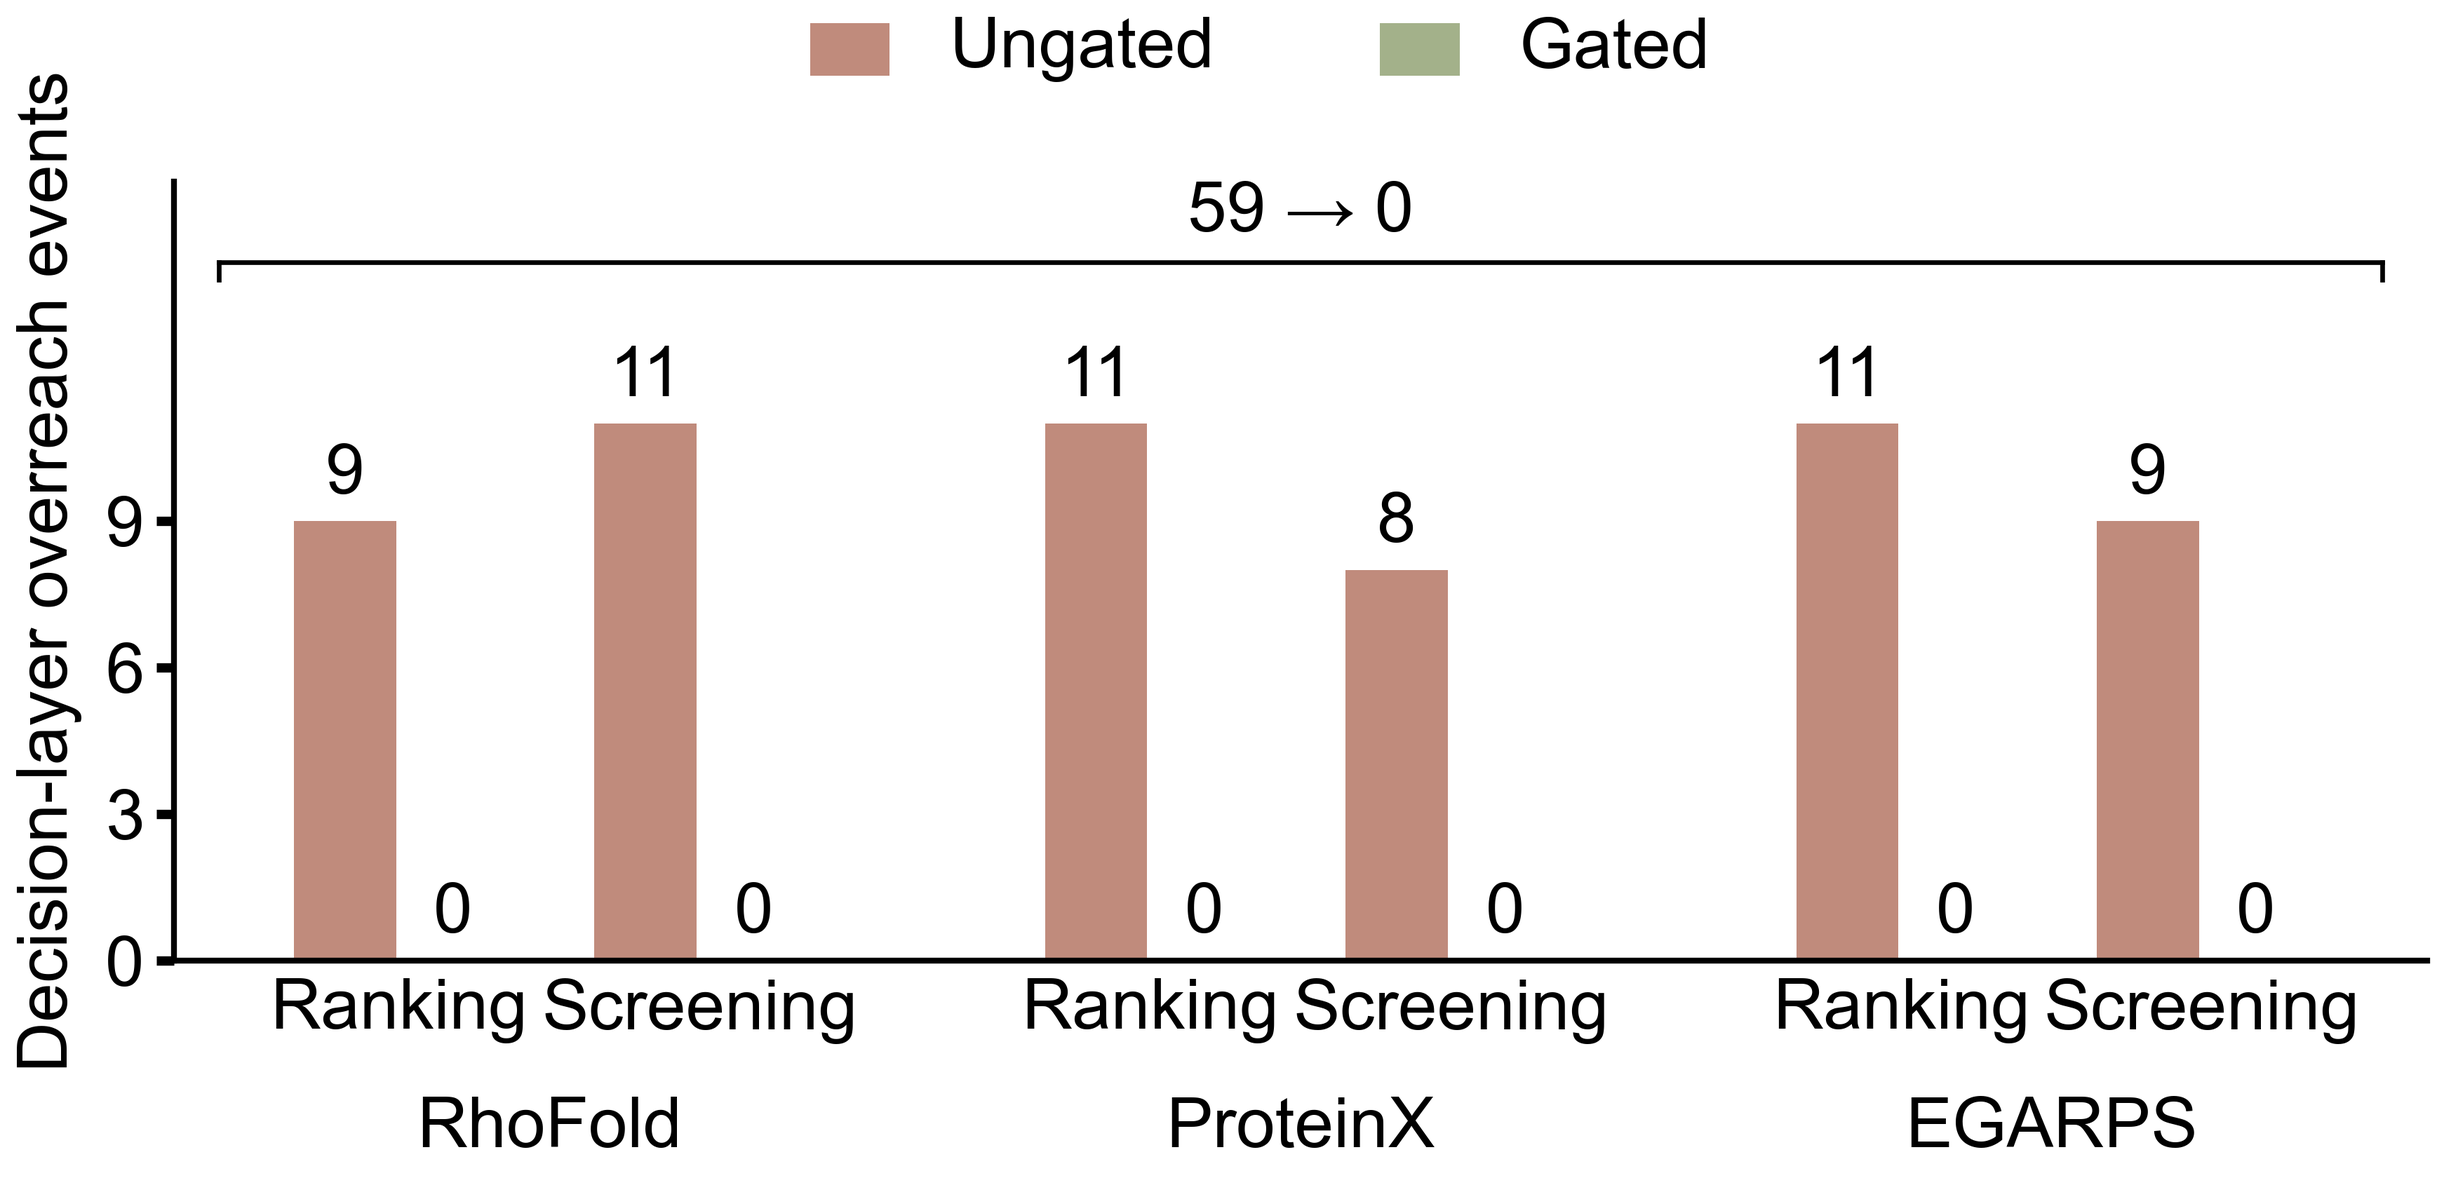
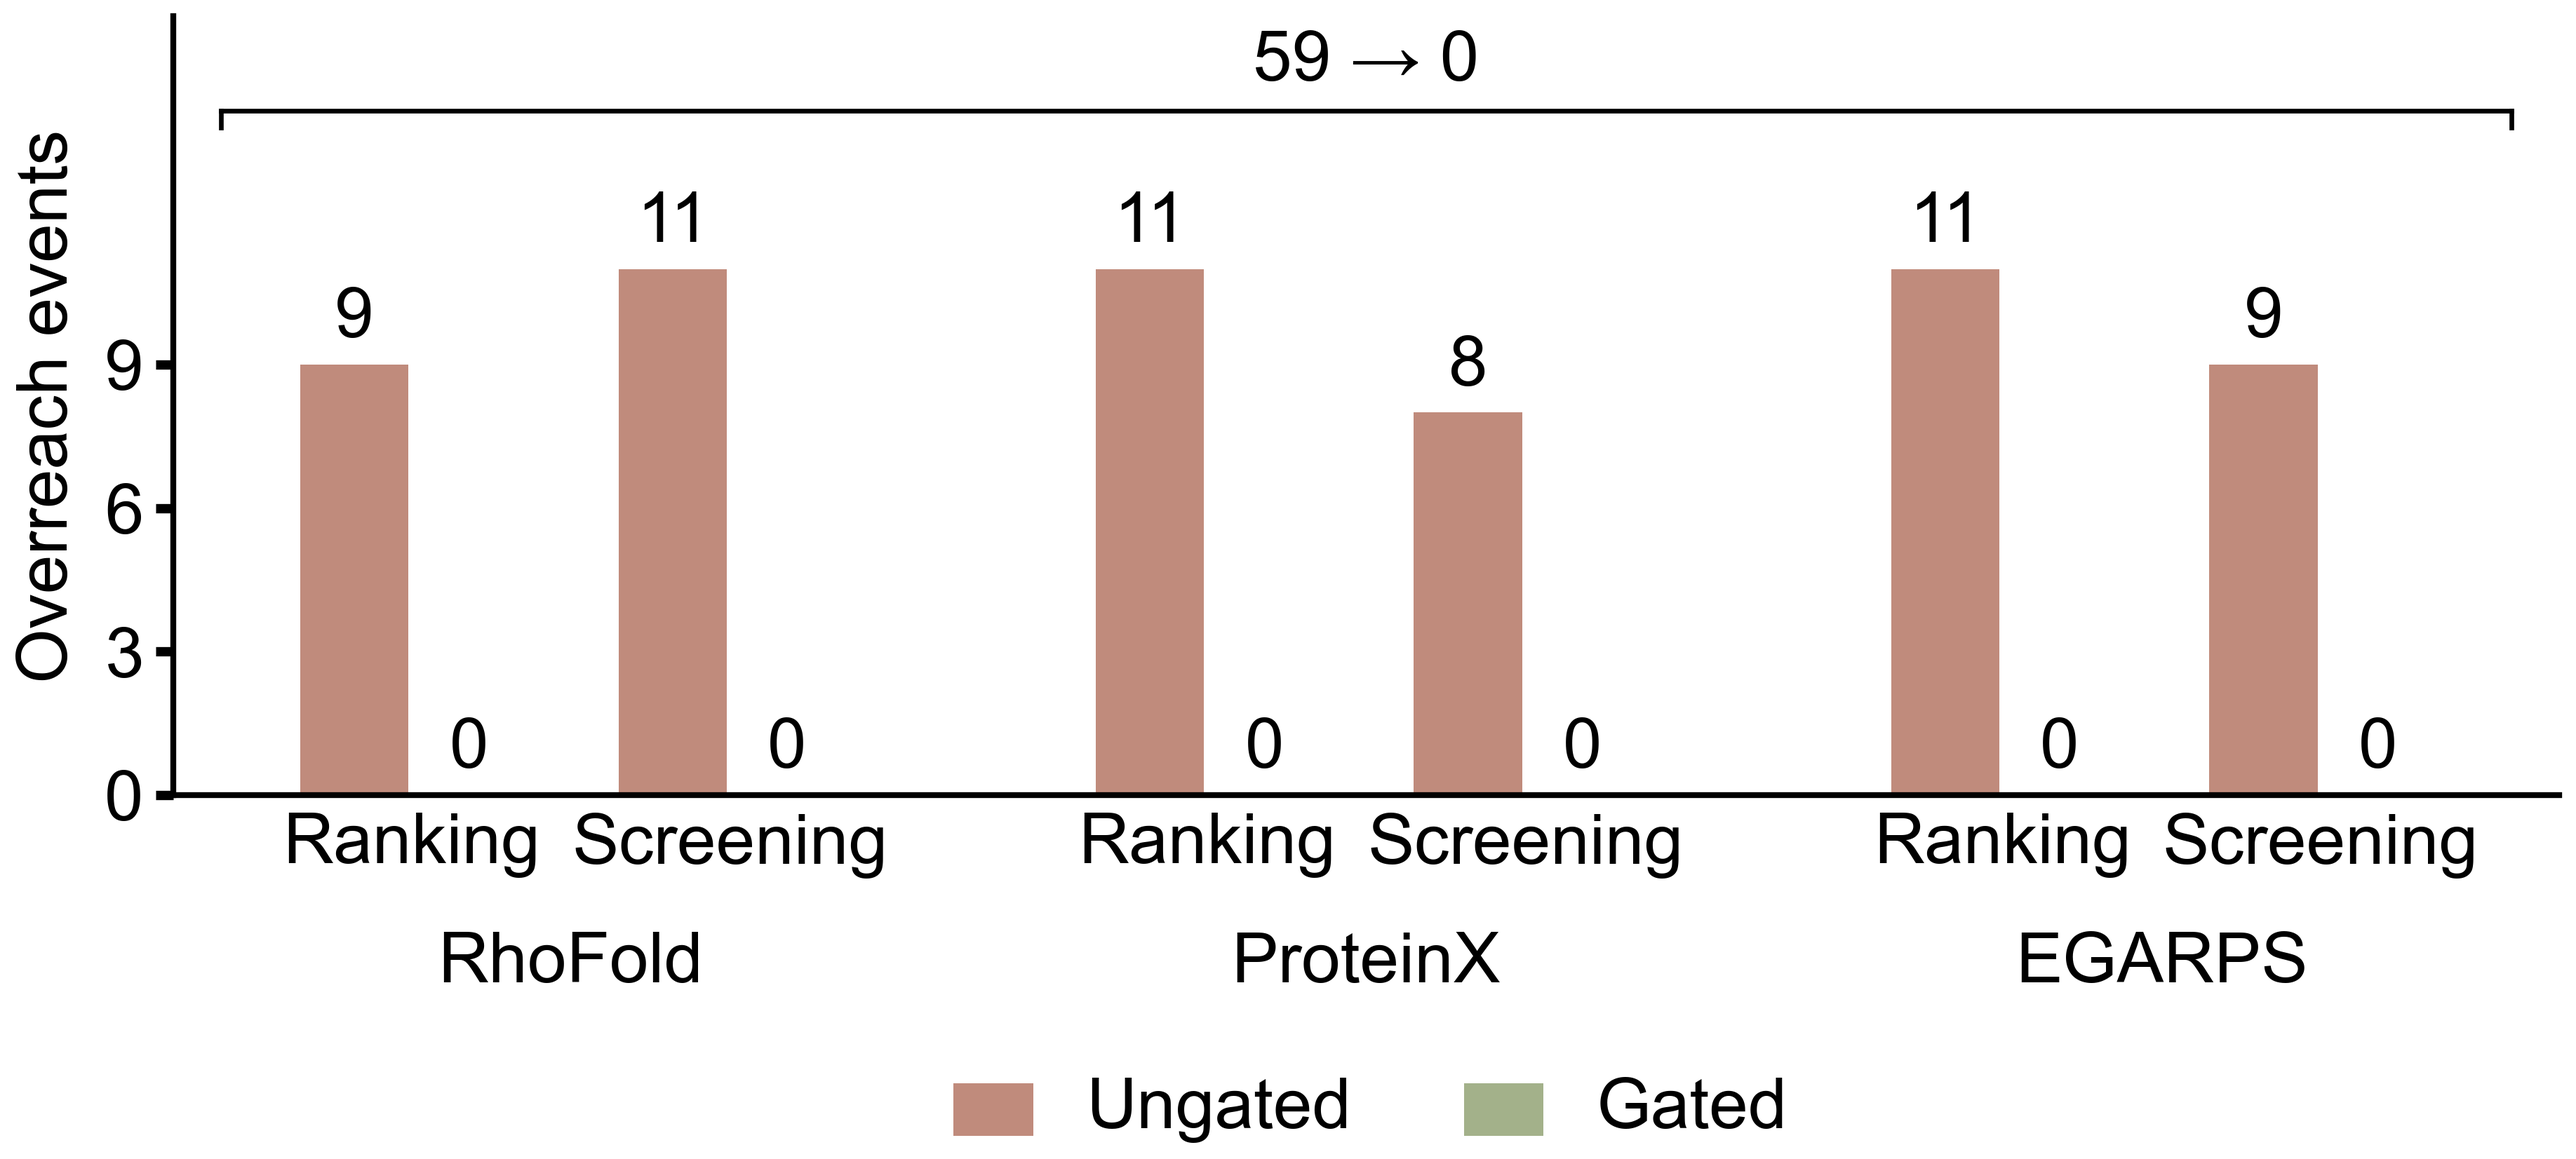
style(fig4c): move the arm key under the panel + shorten the y-axis label — user-directed revision of the frozen Exp-17/Exp-5 panel, no re-run; legend now a single centred row directly under the panel (fig3e convention), y-axis label Overreach events (decision-layer qualifier stays in the Fig. 4c ca

diff --git a/rna_agent_system/experiments/plots/fig4c_overreach_events.py b/rna_agent_system/experiments/plots/fig4c_overreach_events.py
@@ -14,6 +14,15 @@ or summary statistics beyond the registered delta annotation; every text
 element one 6-pt pure-black style; colours only from palette rev 7; 1200-dpi
 PNG + vector PDF (fonttype 42); absolute-mm geometry, single-column width.
 
+2026-09-01 user-directed revision (same frozen results, no re-run): the arm
+key was moved from the floating figure-top position to a single centred row
+directly under the panel (the fig3e convention — legend attached to the
+panel); the y-axis label was shortened from the 31-character
+"Decision-layer overreach events" (which overflowed the 23-mm axis at 6 pt)
+to "Overreach events" — the decision-layer qualifier is stated verbatim in
+the Fig. 4c caption; and the figure geometry was rebalanced to the new
+stack (44 → 40.5 mm tall).
+
 Data  : experiments/results/exp5_claim_overreach/runs_summary.json (ungated)
         experiments/results/exp17_claim_gating/summary.json (gated)
 Usage : python experiments/plots/fig4c_overreach_events.py
@@ -77,13 +86,13 @@ def main() -> int:
     gated_total = exp17["arms"]["gated"]["overreach_events"]
     assert gated_total == 0 and sum(ungated) == exp5["overreach_total"]
 
-    fig_w, fig_h = 89 / 25.4, 44 / 25.4
+    fig_w, fig_h = 89 / 25.4, 40.5 / 25.4
     fig = plt.figure(figsize=(fig_w, fig_h), facecolor="white")
-    ax = fig.add_axes([16 / 25.4 / fig_w, 12.5 / 25.4 / fig_h,
-                       68 / 25.4 / fig_w, 23.5 / 25.4 / fig_h])
+    ax = fig.add_axes([11 / 25.4 / fig_w, 12.5 / 25.4 / fig_h,
+                       72 / 25.4 / fig_w, 23.5 / 25.4 / fig_h])
 
     w = 0.34
-    y_top = max(ungated) * 1.45
+    y_top = max(ungated) * 1.48
     for x, n in zip(xs, ungated):
         ax.bar(x - w / 2 - 0.01, n, width=w, color=ARM_COLORS["ungated"],
                edgecolor="none")
@@ -105,7 +114,7 @@ def main() -> int:
     ax.set_xlim(-0.75, 6.75)
     ax.set_ylim(0, y_top)
     ax.set_yticks(range(0, 12, 3))
-    ax.set_ylabel("Decision-layer overreach events", fontsize=FONT, labelpad=2)
+    ax.set_ylabel("Overreach events", fontsize=FONT, labelpad=2)
     ax.spines["top"].set_visible(False)
     ax.spines["right"].set_visible(False)
 
@@ -118,22 +127,25 @@ def main() -> int:
     ax.text((bx0 + bx1) / 2, by + 0.35, f"{sum(ungated)} → 0",
             ha="center", va="bottom", fontsize=FONT, color=INK)
 
-    # arm key: one centred row under the panel (the fig4a arm-colour key)
+    # arm key: one centred row directly under the panel, centred on the axes
+    # (the fig3e convention — the legend attaches to the panel rather than
+    # floating above it)
     def _fx(v: float) -> float: return v / 25.4 / fig_w
-    def _fy(v: float) -> float: return 1 - v / 25.4 / fig_h
-    key_y = 4.0
-    sw_w, sw_h, pitch, gap_k, label_w = 2.4, 1.6, 3.0, 1.8, 10.0
-    row_w = 2 * (sw_w + gap_k + label_w) + pitch - gap_k
-    x = (16 + 68 / 2) - row_w / 2
-    for arm, lab in (("ungated", "Ungated"), ("gated", "Gated")):
+    def _fy(v: float) -> float: return v / 25.4 / fig_h
+    sw_w, sw_h, gap_k, gap_e = 2.4, 1.6, 1.6, 4.0
+    entries = (("ungated", "Ungated"), ("gated", "Gated"))
+    label_w = {"ungated": 7.4, "gated": 5.5}
+    row_w = (sum(sw_w + gap_k + label_w[a] for a, _ in entries)
+             + gap_e * (len(entries) - 1))
+    x = (11 + 72 / 2) - row_w / 2
+    for arm, lab in entries:
         fig.patches.append(plt.Rectangle(
-            (_fx(x), _fy(key_y + sw_h / 2)), _fx(sw_w),
-            _fy(key_y - sw_h / 2) - _fy(key_y + sw_h / 2),
+            (_fx(x), _fy(3.0 - sw_h / 2)), _fx(sw_w), _fy(sw_h),
             facecolor=ARM_COLORS[arm], edgecolor="none",
             transform=fig.transFigure))
-        fig.text(_fx(x + sw_w + gap_k), _fy(key_y), lab, ha="left", va="center",
+        fig.text(_fx(x + sw_w + gap_k), _fy(3.0), lab, ha="left", va="center",
                  fontsize=FONT, color=INK)
-        x += sw_w + gap_k + label_w + pitch
+        x += sw_w + gap_k + label_w[arm] + gap_e
 
     OUT_DIR.mkdir(parents=True, exist_ok=True)
     for ext in ("pdf", "png"):

diff --git a/rna_agent_system/docs/CHANGELOG.md b/rna_agent_system/docs/CHANGELOG.md
@@ -12,6 +12,10 @@
 
 - **`experiments/plots/fig4b_claim_matrix.py` 修订并重渲染**（`fig4b_claim_matrix.{pdf,png}`）：(1) 删除右上 arm × verdict mosaic inset——其计数已在 Fig 4b 图注与正文陈述（fig2h 删 donut / fig3f 删 waffle 的先例），且其重复的臂标签互相挤压、下方留出整列空带；(2) 行标签改用 fig3 靶标惯例（"IFN-gamma" → "IFN-γ"、"Influenza H3N2 HA" → "swine H3 HA"），"U reduce" 改词为 "U reduction"；(3) 底部四摆片裁定键改为渲染器实测字宽排版（fig4e 惯例）并加画布溢出断言——旧版估算字宽使图例实际比画布宽、靠 tight-crop 外扩；(4) 臂块 12 → 14 mm、块间距 5 → 8 mm，使矩阵主体与单行图例共享画布宽度（tile 1.7 → 2.0 mm）。全部文字维持 6-pt 纯黑（光栅复核：旧版亦全部为 #000000 文字核，无非黑文字）、palette rev 7 用色、1200-dpi PNG + 矢量 PDF。光栅 QA：零非黑文字核、零非调色板色块、tile 内零文字墨迹、四边无裁切。文档同步：PAPER_DRAFT Fig 4 图注 (b) 删 mosaic-inset 从句、FIGURE_PLAN_V5 行 b + 类型清单 + 注记。
 
+## 2026-09-01 — Fig 4c 用户指示修订（同一份 Exp-17/Exp-5 冻结结果，无重跑；数据 59 → 0 不变）
+
+- **`experiments/plots/fig4c_overreach_events.py` 修订并重渲染**（`fig4c_overreach_events.{pdf,png}`）：(1) 臂图例（Ungated/Gated）从悬浮于图顶部（与面板脱开、视觉上像偏置标题）移到面板正下方单行、对轴居中——fig3e「图例贴面板」惯例；(2) y 轴标签从 31 字符的 "Decision-layer overreach events"（6 pt 下超出 23-mm 轴高）缩为 "Overreach events"——decision-layer 限定语在 Fig. 4c 图注中逐字保留；(3) 图几何按新堆叠再平衡（89×44 → 89×40.5 mm，轴 11/12.5/72/23.5 mm，y_top 1.45 → 1.48 使 "59 → 0" 标注完整落于轴内）。子图内无标题维持（Nature 惯例：面板字母组版时加，标题性陈述在图注）。全部文字 6-pt 纯黑（光栅复核：文字核全部 #000000，仅抗锯齿灰晕）、palette rev 7 用色、1200-dpi PNG + 矢量 PDF（fonttype 42）。光栅 QA：四边外 3 px 零墨迹、非条形色块仅调色板两色、无文字/图形重叠。文档同步：FIGURE_PLAN_V5 行 c 注记。
+
 ## 2026-09-01 — Exp 23: 选择性门控决策矩阵重跑（Fig 4e，§2.4 实验 4）
 
 - **数据集（用户确认后开跑，与最新重跑对齐）**：认证家族 = Exp-14 MRL 锚集 `e7_mrl_anchor_set.json`（706 / 3 族，Sample et al. 2019 MPRA, GEO GSE114002——即 Fig 3f 的认证基础、Fig 4d 的 MRL 真值，sha256 冻结进 summary）；未剖析家族 = e18 任务集的生产键 `novel_utr_family_7` 及其真实 50-nt 候选；阻断格 3′UTR = 同一 e18 集的生产 Insulin 构造 3′UTR；E1 交叉验证基准 = 保留的 `e7_mrl_scoring.jsonl`。与 Fig 2a–i / Fig 3a–h / Fig 4a–d 的重合核查：Fig 3f 同一文件、Fig 4d 部分取自它（mrl_optimum 两任务）、Fig 2e 同类零重合（706×50 全比对 0 相同 0 包含）、其余无涉。

diff --git a/rna_agent_system/docs/FIGURE_PLAN_V5.md b/rna_agent_system/docs/FIGURE_PLAN_V5.md
@@ -157,6 +157,8 @@ types.
 
 2026-09-01 Fig 4b user-directed revision (same frozen Exp-17 summary, no re-run): the arm × verdict mosaic inset removed (its counts are stated in the Fig. 4b caption and main text — the fig2h-donut / fig3f-waffle precedent — and its duplicated arm headers cramped against each other above a tall empty column); row labels now follow the fig3 target-label convention ("IFN-gamma" → "IFN-γ", "Influenza H3N2 HA" → "swine H3 HA") and "U reduce" was reworded "U reduction"; the verdict key is laid out with renderer-measured glyph widths (the fig4e convention) inside an assert against canvas overflow; arm blocks widened 12 → 14 mm so the matrix and the one-row key share the canvas width. Raster QA: zero non-black text cores, zero non-palette colour blobs, zero text-ink pixels inside tiles, no clipping.
 
+2026-09-01 Fig 4c user-directed revision (same frozen results, no re-run; data 59 → 0 by oracle × use unchanged): the arm key moved from the floating figure-top position to a single centred row directly under the panel (the fig3e convention — legend attached to the panel); the y-axis label shortened from "Decision-layer overreach events" (31 characters, overflowing the 23-mm axis at 6 pt) to "Overreach events" — the decision-layer qualifier is stated verbatim in the Fig. 4c caption; figure geometry rebalanced to the new stack (44 → 40.5 mm tall); no in-figure title (Nature convention: panel letters at assembly, headline in the caption). All text 6-pt pure black (raster-verified: every text glyph pure-black core, only anti-aliasing halos), palette rev 7 colours, 1200-dpi PNG + vector PDF, raster QA: no ink at the outer border, only palette colour blobs are the two bar swatches.
+
 2026-08-31 summary-panel removal (user direction): Figs 3–5 drop their lead
 summary panel a — the failure-mode schematic (Fig 3, drawn 2026-08-31 and
 removed the same day), the CapGate mechanism schematic (Fig 4) and the GenNav
